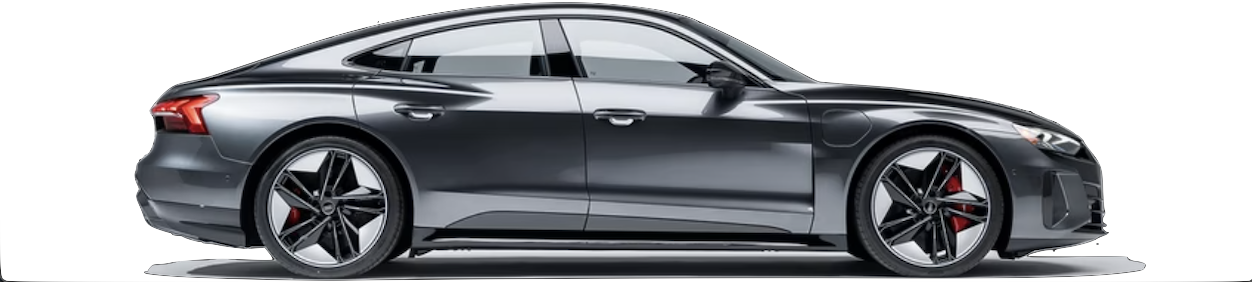
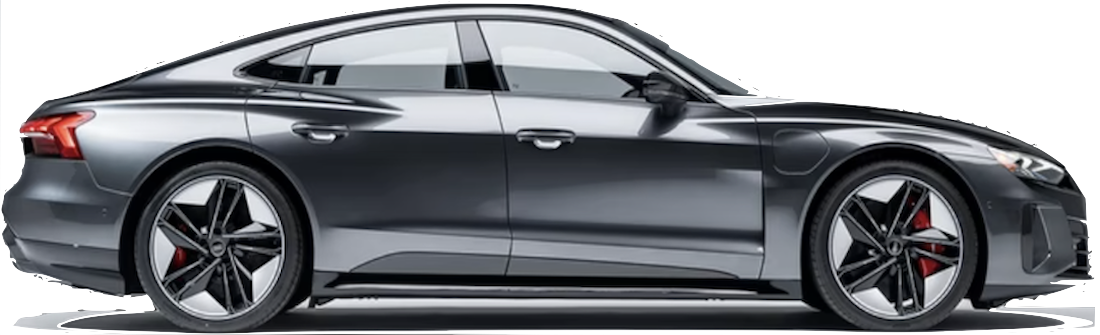
car same size-ification

diff --git a/index.html b/index.html
@@ -433,11 +433,14 @@
 
           );
 
+        // Car images
         chartArea.selectAll('image').data( lux_cars, l => l['Brand_Model']  )
               .join( enter => enter.append('image')
               .attr('class','image')
+              .attr('id', l => l['Brand_Model'])
               .attr('xlink:href', l => 'images/' + l.Brand_Model + '.png')
               .attr('height', carScale.bandwidth()-5)
+              .attr('width', 85)
               .attr("x", l => rangeScale(l.Range_Km)-50)
               .attr("y", l => carScale(l.Brand_Model)-2)
 
